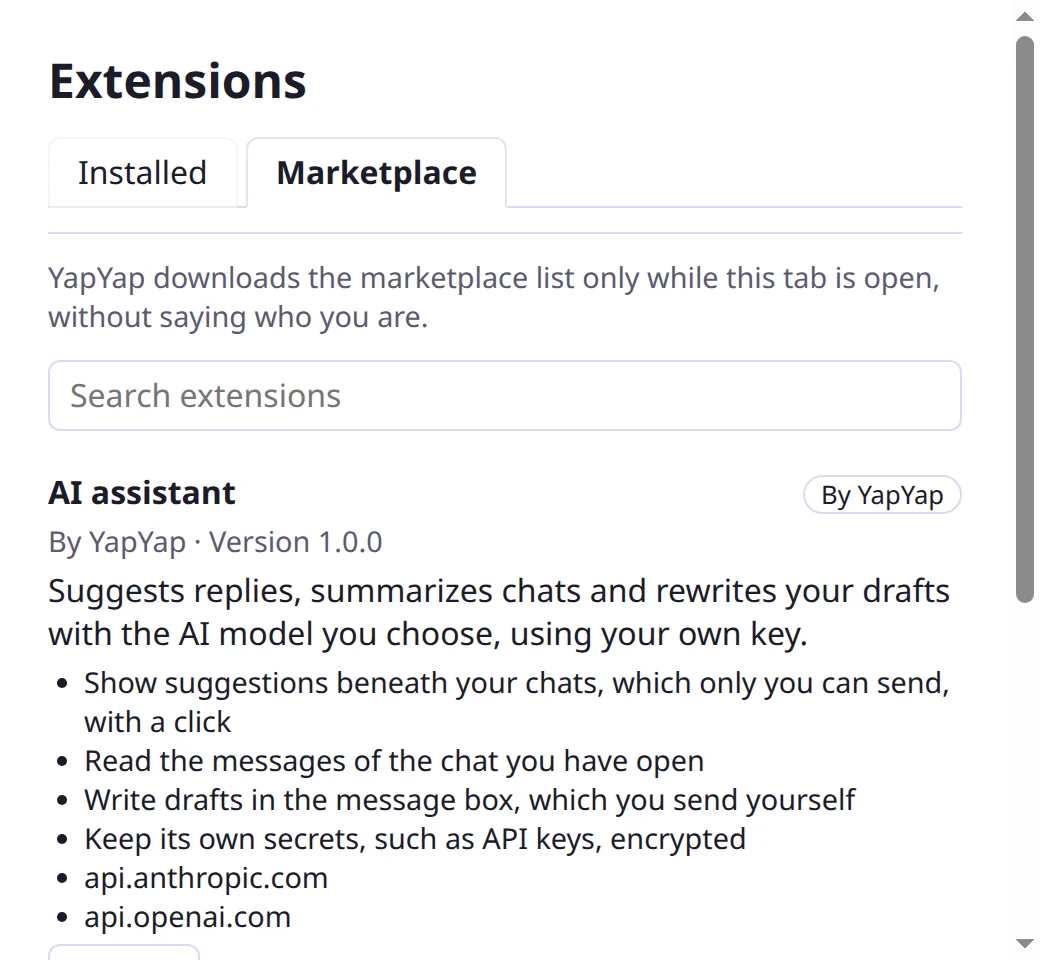
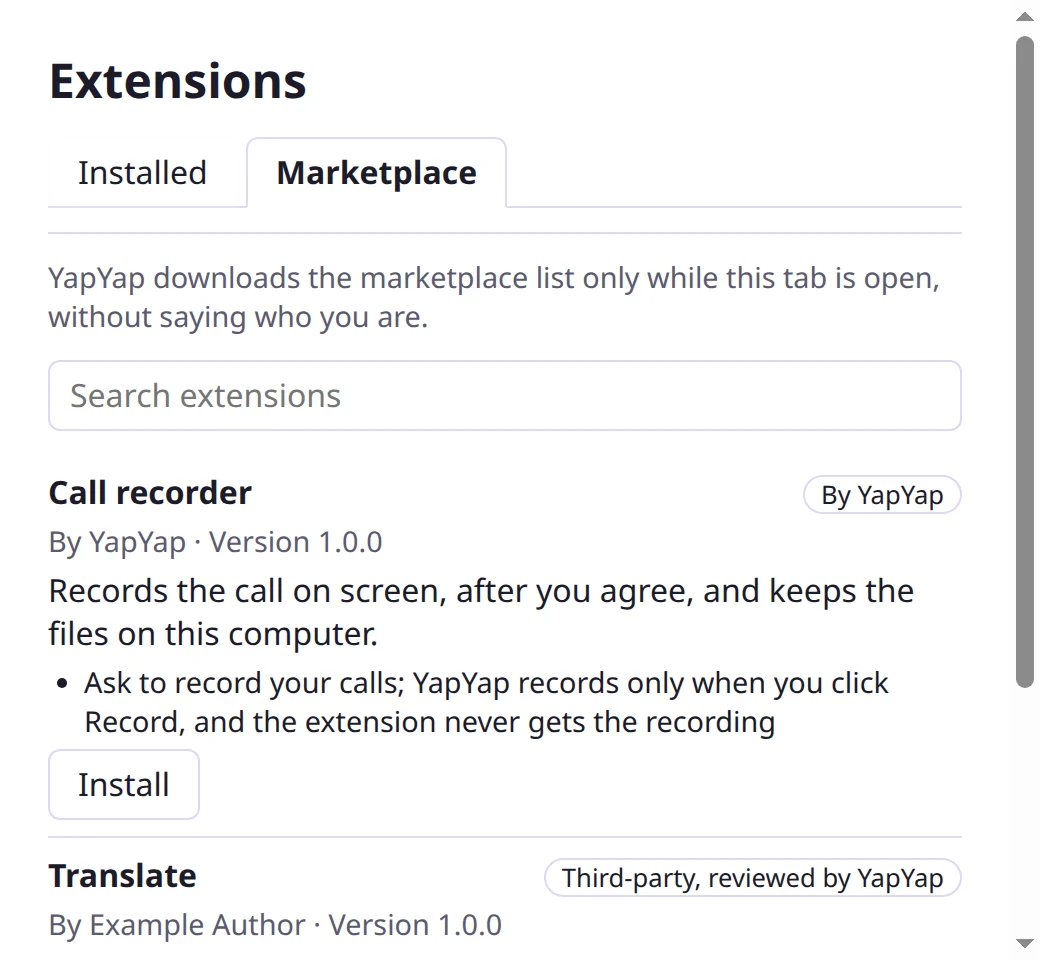
docs: present the assistant as part of YapYap across the site
The assistant screenshot showed the removed extension panel and the
Marketplace one listed the assistant as an extension; both are taken
again with pnpm screenshots, and the Settings shot now shows the
sections after the assistant. The guide gains an assistant section and
puts its page second, the FAQ says what the assistant reads, the
architecture overview draws the assistant and its providers and lists
every ADR, and the install guide and README say macOS builds are signed.

Refs #516

Changed region(s): [[0.0308, 0.5938, 0.9231, 1.0], [0.0308, 0.5, 0.2462, 0.5312], [0.9538, 0.625, 1.0, 0.7188]]

diff --git a/apps/desktop/e2e/screenshots/website.spec.ts b/apps/desktop/e2e/screenshots/website.spec.ts
@@ -153,6 +153,11 @@ test('Settings window', async ({ profile }) => {
   ]);
   try {
     await clickMenu(app, 'Settings…');
+    // The assistant, first in Settings, has a picture of its own; this one shows the rest.
+    const settings = await chromePage(app, '/settings.html');
+    await settings.getByRole('heading', { name: 'General', exact: true }).evaluate((heading) => {
+      window.scrollTo(0, heading.getBoundingClientRect().top + window.scrollY - 24);
+    });
     await captureWindow(app, '/settings.html', 'settings', ['png']);
   } finally {
     await closeApp(app);
@@ -217,6 +222,11 @@ test('AI assistant settings', async ({ profile }) => {
   try {
     const settings = await readyClaude(app, CLAUDE_ANSWER);
     await expect(settings.getByText('In use')).toBeVisible();
+    // Saving the key scrolled to it and kept focus on its button; the shot starts at the top.
+    await settings.evaluate(() => {
+      (document.activeElement as HTMLElement | null)?.blur();
+      window.scrollTo(0, 0);
+    });
     await captureWindow(app, '/settings.html', 'assistant', ['png', 'webp']);
   } finally {
     await closeApp(app);

diff --git a/docs/.vitepress/config.ts b/docs/.vitepress/config.ts
@@ -101,11 +101,11 @@ export default defineConfig({
           text: 'User guide',
           items: [
             { text: 'Get started', link: '/guide/get-started' },
+            { text: 'AI assistant', link: '/guide/ai-assistant' },
             { text: 'User guide', link: '/guide/' },
             { text: 'Install', link: '/guide/install' },
             { text: 'Troubleshooting', link: '/guide/troubleshooting' },
             { text: 'Reference', link: '/guide/reference' },
-            { text: 'AI assistant', link: '/guide/ai-assistant' },
             { text: 'Call recorder', link: '/guide/call-recorder' },
             { text: 'FAQ', link: '/guide/faq' },
           ],

diff --git a/docs/.vitepress/theme/components/Landing.vue b/docs/.vitepress/theme/components/Landing.vue
@@ -138,11 +138,11 @@ const faqs: readonly { readonly question: string; readonly answer: string }[] = 
         <a class="more" href="/guide/ai-assistant">Meet the assistant</a>
       </div>
       <img
-        class="feature-shot panel"
+        class="feature-shot"
         :src="shot('assistant')"
-        width="420"
-        height="640"
-        alt="Settings for the AI assistant: where it thinks, with Claude in use, and its model."
+        width="1280"
+        height="1360"
+        alt="Settings for the AI assistant: where it thinks, set to Automatic with Claude in use, and a private model ready to download."
       />
     </section>
 

diff --git a/docs/.vitepress/theme/landing.css b/docs/.vitepress/theme/landing.css
@@ -235,11 +235,6 @@
   box-shadow: 0 20px 50px rgb(30 20 80 / 16%);
 }
 
-.landing .feature-shot.panel {
-  max-width: 360px;
-  justify-self: center;
-}
-
 .landing .tiles {
   display: grid;
   grid-template-columns: 1fr 1fr;

diff --git a/docs/architecture/index.md b/docs/architecture/index.md
@@ -19,7 +19,7 @@ checked channels.
 <figure class="diagram">
 <svg viewBox="0 0 760 440" role="img" aria-labelledby="zones-title zones-desc">
 <title id="zones-title">YapYap's processes and trust zones</title>
-<desc id="zones-desc">The trusted main process sits between three kinds of sandboxed renderer: WhatsApp accounts, YapYap's own chrome and extensions. Each reaches the main process through its own checked channel. WhatsApp views reach only web.whatsapp.com, extensions reach only hosts they were allowed, and the main process alone asks GitHub for updates.</desc>
+<desc id="zones-desc">The trusted main process sits between three kinds of sandboxed renderer: WhatsApp accounts, YapYap's own chrome and extensions. Each reaches the main process through its own checked channel. WhatsApp views reach only web.whatsapp.com, extensions reach only hosts they were allowed, and the main process alone reaches GitHub for updates and the AI provider you chose.</desc>
 <defs>
 <marker id="zones-arrow" viewBox="0 0 10 10" refX="9" refY="5" markerWidth="7" markerHeight="7" orient="auto-start-reverse"><path class="arrowhead" d="M0,0 L10,5 L0,10 z"/></marker>
 </defs>
@@ -27,15 +27,15 @@ checked channels.
 <text class="title" x="130" y="42" text-anchor="middle">web.whatsapp.com</text>
 <text class="note" x="130" y="59" text-anchor="middle">the internet</text>
 <rect class="box untrusted" x="270" y="20" width="220" height="50" rx="8"/>
-<text class="title" x="380" y="42" text-anchor="middle">GitHub releases</text>
-<text class="note" x="380" y="59" text-anchor="middle">update metadata only</text>
+<text class="title" x="380" y="42" text-anchor="middle">Updates and AI providers</text>
+<text class="note" x="380" y="59" text-anchor="middle">GitHub, the provider you chose</text>
 <rect class="box untrusted" x="520" y="20" width="220" height="50" rx="8"/>
 <text class="title" x="630" y="42" text-anchor="middle">Hosts an extension may reach</text>
 <text class="note" x="630" y="59" text-anchor="middle">approved HTTPS hosts, loopback</text>
 <rect class="box trusted" x="140" y="130" width="480" height="80" rx="8"/>
 <text class="title" x="380" y="158" text-anchor="middle">Main process (Node.js): trusted</text>
 <text x="380" y="179" text-anchor="middle">settings · accounts · IPC checks · permissions · network filters</text>
-<text x="380" y="197" text-anchor="middle">extension host · capability checks · audit log · updates</text>
+<text x="380" y="197" text-anchor="middle">AI assistant · extension host · audit log · updates</text>
 <rect class="box untrusted" x="20" y="290" width="220" height="130" rx="8"/>
 <text class="title" x="130" y="314" text-anchor="middle">WhatsApp accounts</text>
 <text x="130" y="336" text-anchor="middle">one view per account</text>
@@ -207,4 +207,7 @@ Each design choice is recorded in an
 | WhatsApp notifications                                   | [0011](/adr/0011-whatsapp-notifications)                |
 | Translations and right-to-left support                   | [0012](/adr/0012-translations)                          |
 | The in-chat assistant bar                                | [0013](/adr/0013-in-chat-assistant-bar)                 |
+| The extension marketplace                                | [0014](/adr/0014-extension-marketplace)                 |
+| Call recording                                           | [0015](/adr/0015-call-recording)                        |
+| "Extensions", not "plugins"                              | [0016](/adr/0016-extensions-not-plugins)                |
 | The AI assistant as part of YapYap                       | [0017](/adr/0017-assistant-is-part-of-yapyap)           |

diff --git a/docs/guide/install.md b/docs/guide/install.md
@@ -76,7 +76,7 @@ YapYap is available in these formats:
 | Arch Linux     | The pacman repository            | Through pacman                           |
 | Windows        | Installer (x64, arm64)           | Built-in updater                         |
 | Windows        | Portable (x64, arm64)            | Notifies you of new versions             |
-| macOS          | Universal DMG                    | Notifies you of new versions             |
+| macOS          | Universal DMG                    | Built-in updater                         |
 
 Releases are published on
 [GitHub](https://github.com/vascoguita/yapyap/releases).
@@ -86,35 +86,20 @@ On Arch Linux, use the [pacman repository](#linux-repositories), or download
 folder, and run `makepkg -si` there. YapYap will be published to the AUR as
 `yapyap-bin` once AUR account registration reopens.
 
-## First launch on macOS and Windows {#unsigned}
+## First launch on Windows {#unsigned}
 
-YapYap's macOS and Windows builds are not code-signed yet: signing
-certificates cost money every year, and YapYap is free. Your system warns
-you the first time you open it. Before you allow it, you can
+YapYap's macOS builds are signed with a Developer ID and notarized by
+Apple, so they open normally and update themselves. Its Windows builds are
+not code-signed yet: a signing certificate costs money every year, and
+YapYap is free. Windows warns you the first time you open it. Before you
+allow it, you can
 [check that your download is genuine](#verify-a-download).
 [Sponsoring YapYap](https://github.com/sponsors/vascoguita) helps pay for
 signing.
 
-**macOS.** macOS says it cannot verify that YapYap is free of malware.
-
-1. Drag YapYap from the DMG to Applications and open it once. Close the
-   warning.
-2. Open **System Settings → Privacy & Security**, scroll down to the message
-   about YapYap, and click **Open Anyway**. Confirm with your password.
-
-From then on YapYap opens normally. If you prefer the terminal, this does the
-same:
-
-```sh
-xattr -dr com.apple.quarantine /Applications/YapYap.app
-```
-
-Unsigned macOS builds can't update themselves, so YapYap tells you when a new
-version is out instead.
-
-**Windows.** SmartScreen shows "Windows protected your PC". Click
-**More info**, then **Run anyway**. YapYap still updates itself, and checks
-each update's hash before installing it.
+SmartScreen shows "Windows protected your PC". Click **More info**, then
+**Run anyway**. YapYap still updates itself, and checks each update's hash
+before installing it.
 
 Linux packages need none of this.
 

diff --git a/docs/guide/faq.md b/docs/guide/faq.md
@@ -6,7 +6,8 @@ YapYap is a desktop window for the official WhatsApp Web, the same page you
 would open in Chrome. It loads `https://web.whatsapp.com` unchanged, on
 Chromium, and identifies itself as the Chrome version it is built on. It
 never sends messages or acts on WhatsApp for you: there is no automation of
-any kind, and extensions can only write drafts that you send yourself.
+any kind. The AI assistant and extensions only write drafts, and a message
+goes out only when you send it.
 
 YapYap is not made by WhatsApp or Meta, and nobody but WhatsApp can promise
 what WhatsApp will do. What YapYap can promise is that it behaves like a
@@ -53,6 +54,16 @@ devices WhatsApp allows for that phone number.
 No. YapYap has no telemetry and sends nothing about you anywhere. The
 [privacy page](/privacy) lists everything it keeps on your computer and how
 to delete it.
+
+## Does the AI assistant read my chats? {#assistant-privacy}
+
+Only chats you allow it in: the first time you ask for something in a chat,
+it shows exactly what it would send and waits for **Allow here**. **Catch up**
+reads only the chat list's previews, shows them, and sends them once when you
+click **Send**. With the private model or a model server on your computer,
+nothing leaves your computer; with Claude or OpenAI, that text goes to the
+service you chose, with your own key. See the
+[AI assistant guide](/guide/ai-assistant).
 
 ## Something is broken. What should I try first?
 

diff --git a/docs/guide/index.md b/docs/guide/index.md
@@ -24,10 +24,21 @@ follow what comes next on the
 ## First launch
 
 The first time YapYap starts, a short welcome asks for the choices most
-people make at once: the theme, whether closing the window keeps YapYap in
-the tray, starting at login, and how much notifications show. Each choice
+people make at once: where the AI assistant thinks, the theme, whether
+closing the window keeps YapYap in the tray, starting at login, and how much
+notifications show. Each choice
 applies as you make it; press <kbd>Esc</kbd> or **Start Using YapYap** when
 you are done. Everything it asks is also in Settings.
+
+## AI assistant
+
+YapYap's built-in assistant helps you write, right above the message box: it
+suggests replies, writes the message you describe, rewrites your draft,
+sums up a chat, and catches you up on unread chats. It runs a private model
+on your computer, a model server you already run, or Claude or OpenAI with
+your own key. It reads a chat only once you allow it there, and never sends
+a message on its own. The [AI assistant guide](/guide/ai-assistant) covers
+setting it up and every choice.
 
 ## Settings
 

diff --git a/README.md b/README.md
@@ -56,6 +56,7 @@ YapYap is young and not yet at 1.0. Follow what comes next on the
   private model that runs on your computer, a model server you already
   run, or Claude or OpenAI with your own key. It reads a chat only once you
   allow it there, shows exactly what it sends, and never sends a message
+  on its own.
 - Multiple accounts with fully isolated sessions
 - Native notifications, tray or menu bar with unread counts, and do-not-disturb
 - Recovery tools that fix a stuck session without logging you out
@@ -84,8 +85,8 @@ Sponsorships pay for what building YapYap costs:
 
 - **Development tools:** a Claude subscription for AI-assisted development.
   A higher plan means fewer pauses when the usage limit runs out.
-- **Code signing:** certificates for macOS and Windows, so YapYap installs
-  without security warnings.
+- **Code signing:** a Windows certificate, so YapYap installs there without
+  a security warning, as it already does on macOS.
 
 ## Supporters
 
